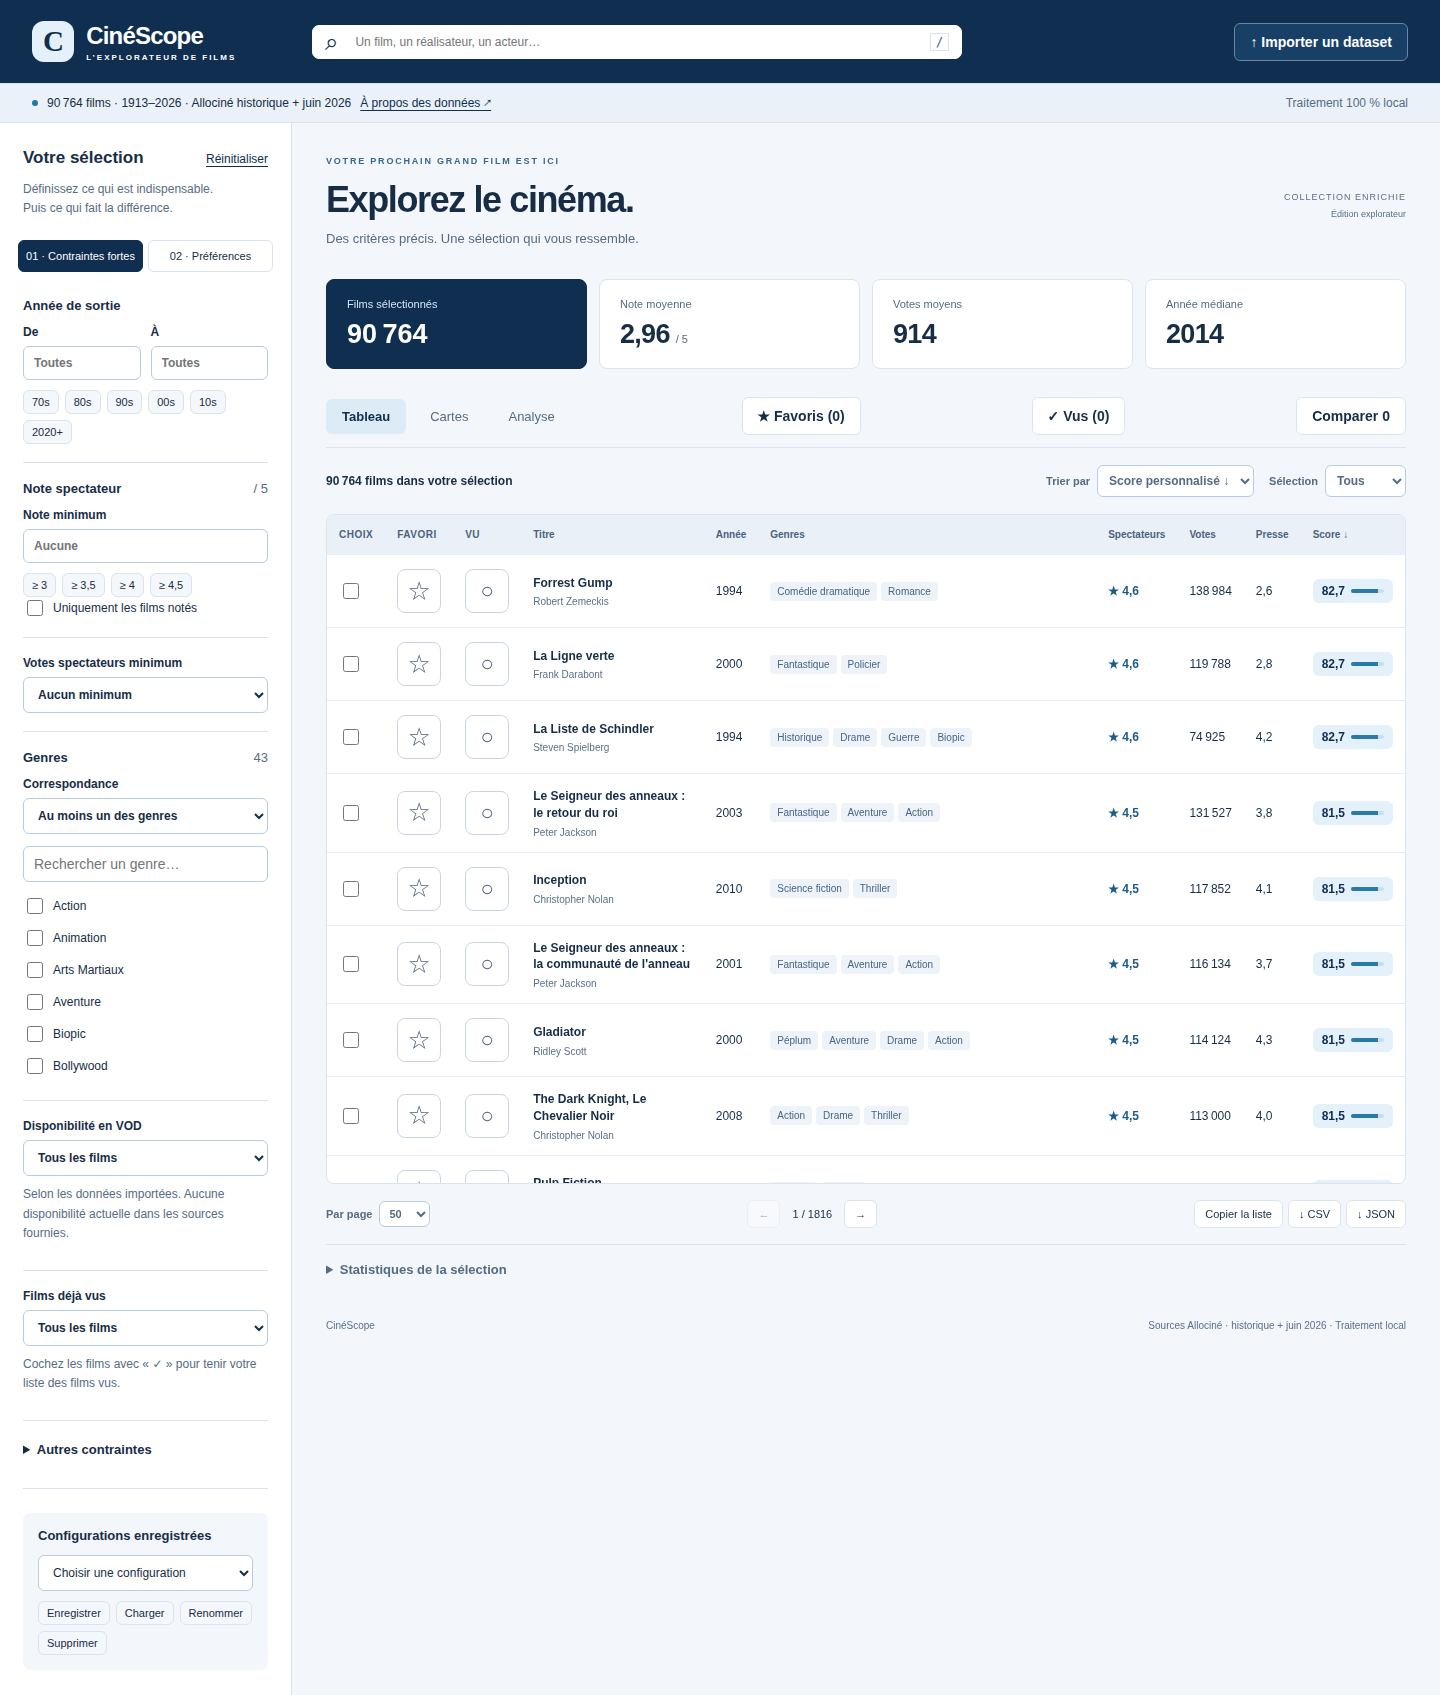
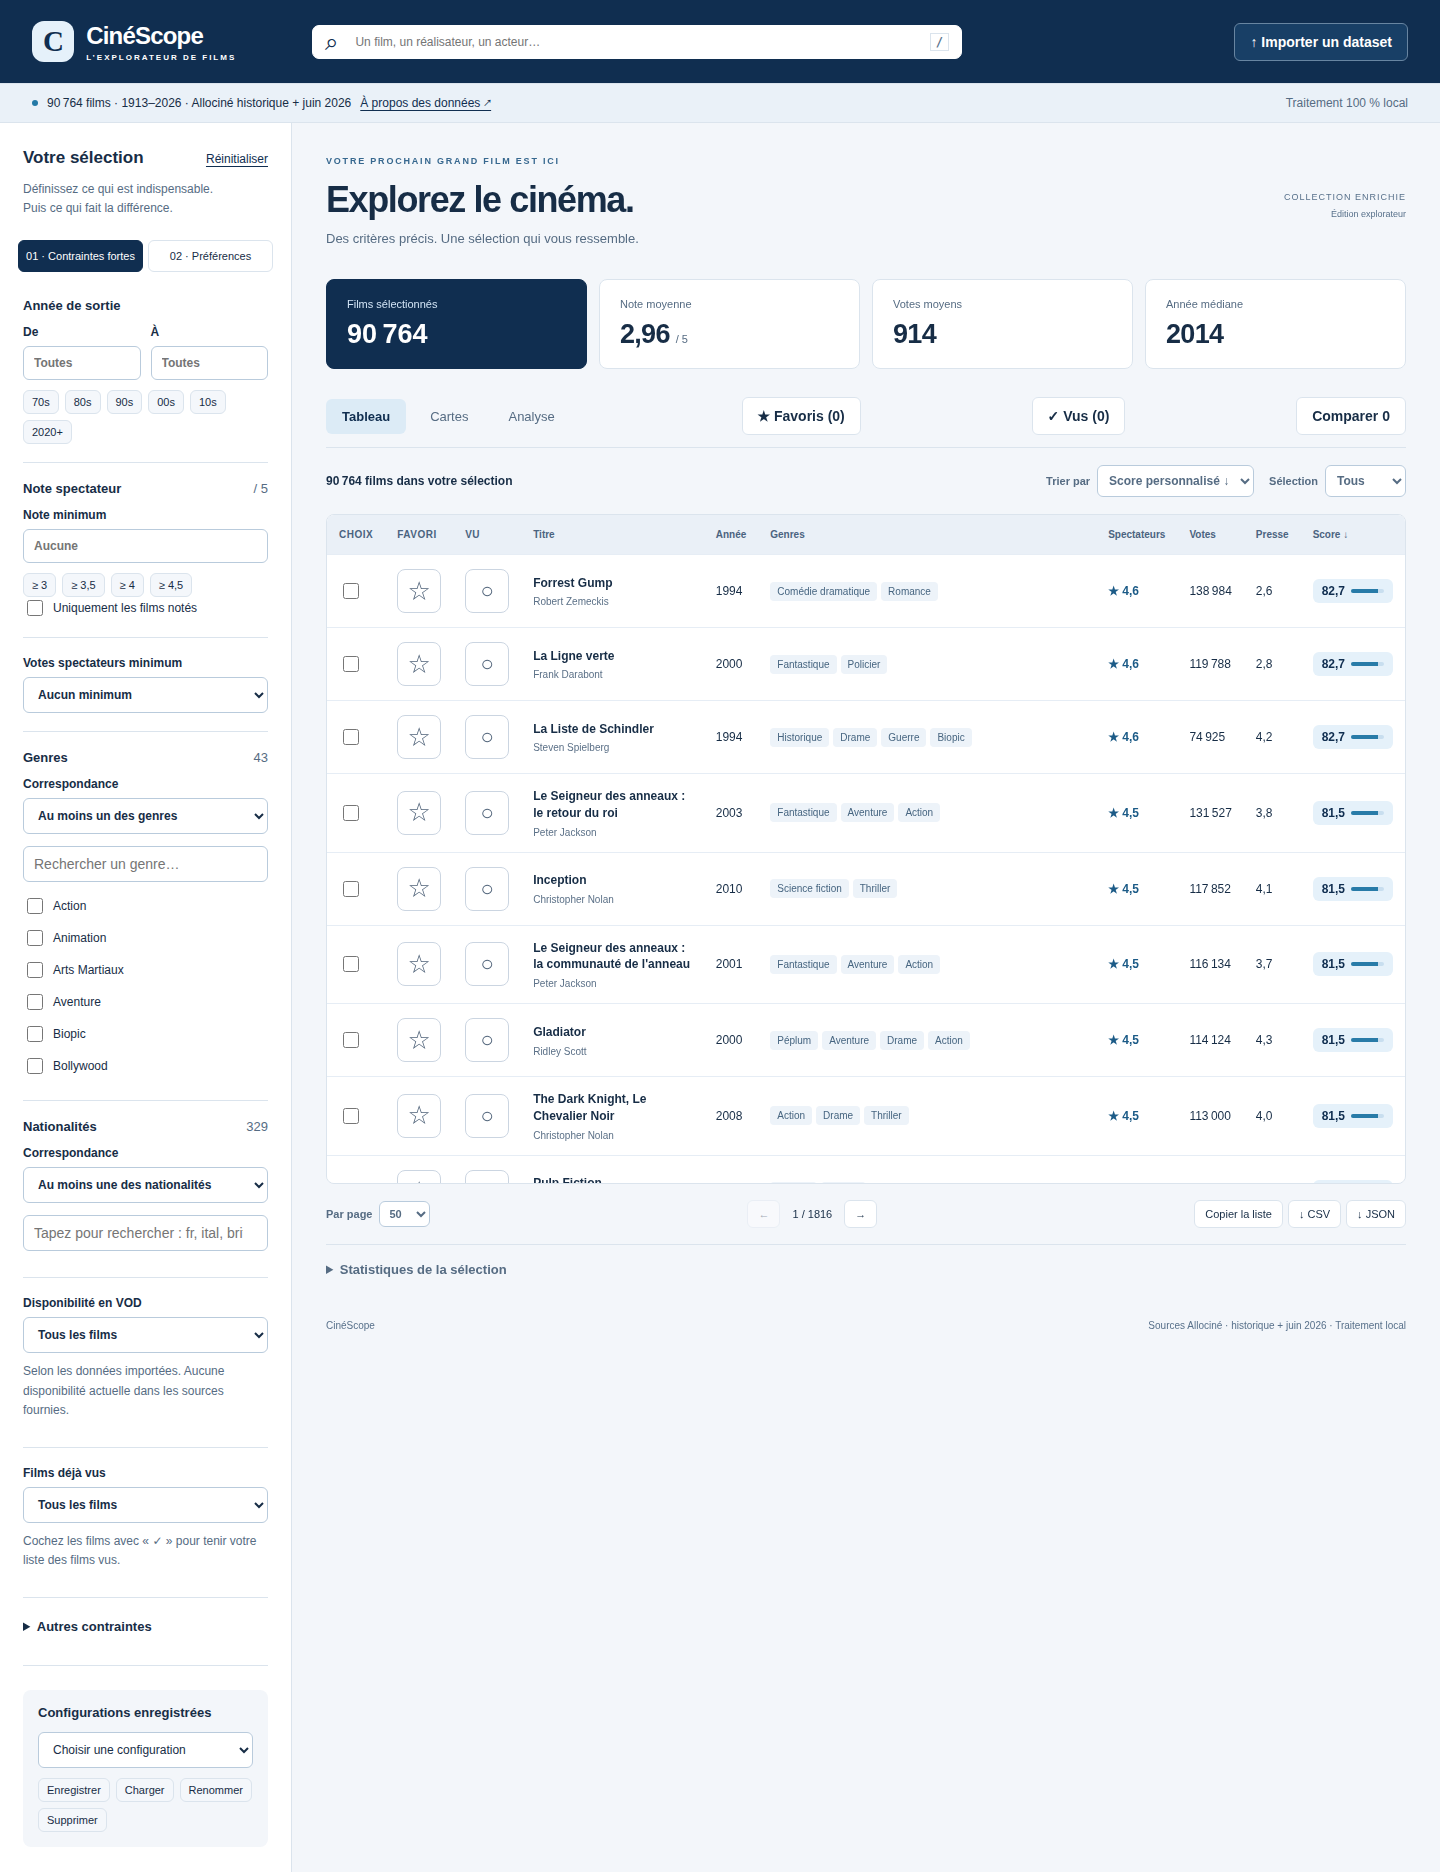
ok

diff --git a/js/ui/controls.js b/js/ui/controls.js
@@ -1,6 +1,9 @@
 import { $, el, labels, fmt } from "./dom.js";
 import { normalizeWeights } from "../scoring/scoring.js";
+import { fold } from "../utils/values.js";
+let refreshResults = () => {};
 export function setupControls(state, update) {
+  refreshResults = update;
   for (const decade of [1970, 1980, 1990, 2000, 2010, 2020])
     $("#decades").append(
       el(
@@ -99,6 +102,114 @@ export function setupControls(state, update) {
     for (const label of $("#genre-list").children)
       label.hidden = !label.textContent.toLocaleLowerCase("fr").includes(q);
   };
+  setupCountryAutocomplete(state);
+}
+function setupCountryAutocomplete(state) {
+  const input = $("#country-search"),
+    box = $("#country-suggestions");
+  let active = -1;
+  const suggestions = () => {
+    const q = fold(input.value).trim();
+    if (!q) return [];
+    const chosen = state.config.filters.countries;
+    const all = state.summary?.countries || [];
+    return all
+      .filter((c) => !chosen.includes(c) && fold(c).includes(q))
+      .sort((a, b) => {
+        const ap = fold(a).startsWith(q),
+          bp = fold(b).startsWith(q);
+        return ap === bp ? a.localeCompare(b, "fr") : ap ? -1 : 1;
+      })
+      .slice(0, 8);
+  };
+  const close = () => {
+    box.hidden = true;
+    box.replaceChildren();
+    active = -1;
+    input.setAttribute("aria-expanded", "false");
+  };
+  const choose = (country) => {
+    if (!state.config.filters.countries.includes(country))
+      state.config.filters.countries = [
+        ...state.config.filters.countries,
+        country,
+      ];
+    input.value = "";
+    close();
+    renderCountrySelected(state);
+    refreshResults();
+  };
+  const render = () => {
+    const items = suggestions();
+    active = -1;
+    if (!items.length) return close();
+    box.replaceChildren(
+      ...items.map((c, i) =>
+        el(
+          "button",
+          {
+            type: "button",
+            class: "suggestion",
+            role: "option",
+            onmousedown: (e) => {
+              e.preventDefault();
+              choose(c);
+            },
+            onmouseenter: () => setActive(i),
+          },
+          c,
+        ),
+      ),
+    );
+    box.hidden = false;
+    input.setAttribute("aria-expanded", "true");
+  };
+  const setActive = (i) => {
+    active = i;
+    [...box.children].forEach((n, j) =>
+      n.classList.toggle("active", j === i),
+    );
+  };
+  input.oninput = render;
+  input.onfocus = render;
+  input.onblur = () => setTimeout(close, 120);
+  input.onkeydown = (e) => {
+    const items = [...box.children];
+    if (e.key === "ArrowDown") {
+      e.preventDefault();
+      if (items.length) setActive((active + 1) % items.length);
+    } else if (e.key === "ArrowUp") {
+      e.preventDefault();
+      if (items.length) setActive((active - 1 + items.length) % items.length);
+    } else if (e.key === "Enter") {
+      const pick = items[active] || items[0];
+      if (pick) {
+        e.preventDefault();
+        pick.dispatchEvent(new MouseEvent("mousedown"));
+      }
+    } else if (e.key === "Escape") close();
+  };
+}
+export function renderCountrySelected(state) {
+  const chosen = state.config.filters.countries;
+  $("#country-selected").replaceChildren(
+    ...chosen.map((c) =>
+      el(
+        "button",
+        {
+          type: "button",
+          class: "chip-remove",
+          "aria-label": "Retirer " + c,
+          onclick: () => {
+            state.config.filters.countries = chosen.filter((v) => v !== c);
+            renderCountrySelected(state);
+            refreshResults();
+          },
+        },
+        c + " ×",
+      ),
+    ),
+  );
 }
 export function renderGenres(state) {
   $("#genre-list").replaceChildren(
@@ -129,6 +240,7 @@ export function renderGenres(state) {
     ),
   );
   $("#genre-count").textContent = state.summary.genres.length;
+  $("#country-count").textContent = state.summary.countries.length;
 }
 export function updateWeightLabels(state) {
   const w = normalizeWeights(state.config.scoring.weights);
@@ -164,5 +276,6 @@ export function syncControls(state) {
     state.config.sorting.field + ":" + state.config.sorting.direction;
   $("#top").value = state.config.top;
   $("#page-size").value = state.config.pageSize;
+  renderCountrySelected(state);
   updateWeightLabels(state);
 }

diff --git a/tests/browser/app.spec.js b/tests/browser/app.spec.js
@@ -331,3 +331,28 @@ test("watched films persist, filter as a tab and hide from hard constraints", as
   await expect(page.locator("#watched-only")).toHaveText("✓ Vus (1)");
   await expect(page.locator("#hard-form [name=watched]")).toHaveValue("all");
 });
+test("nationality autocomplete suggests, adds and removes a filter", async ({ page }) => {
+  const total = await page.locator("#result-count").textContent();
+  // Typing a prefix suggests matching nationalities (accent-insensitive).
+  await page.locator("#country-search").fill("fr");
+  const suggestions = page.locator("#country-suggestions .suggestion");
+  await expect(suggestions.first()).toBeVisible();
+  await expect(suggestions.filter({ hasText: "français" }).first()).toBeVisible();
+  // Selecting one adds a removable chip and filters the results.
+  await suggestions.filter({ hasText: "français" }).first().click();
+  await expect(page.locator("#country-selected")).toContainText("français");
+  await expect(page.locator("#country-search")).toHaveValue("");
+  await expect(page.locator("#result-count")).not.toHaveText(total);
+  await expect(page.locator("#active-filters")).toContainText("français");
+  // Keyboard: type + Enter selects the top suggestion.
+  await page.locator("#country-search").fill("ital");
+  await page.locator("#country-search").press("Enter");
+  await expect(page.locator("#country-selected")).toContainText(/Ital/i);
+  // Removing the chip clears that filter.
+  await page.locator("#country-selected button", { hasText: "français" }).click();
+  await expect(page.locator("#country-selected")).not.toContainText("français");
+  // Reset clears everything.
+  await page.locator("#reset").click();
+  await expect(page.locator("#country-selected")).toBeEmpty();
+  await expect(page.locator("#result-count")).toHaveText(total);
+});

diff --git a/index.html b/index.html
@@ -115,6 +115,33 @@
             <div id="genre-list" class="genre-list"></div>
           </div>
           <div class="filter-section">
+            <h3>Nationalités <span id="country-count" class="scale"></span></h3>
+            <label
+              >Correspondance<select name="countryMode">
+                <option value="any">Au moins une des nationalités</option>
+                <option value="all">Toutes les nationalités</option>
+                <option value="exclude">Exclure ces nationalités</option>
+              </select></label
+            ><input
+              type="search"
+              id="country-search"
+              role="combobox"
+              autocomplete="off"
+              aria-autocomplete="list"
+              aria-expanded="false"
+              aria-controls="country-suggestions"
+              aria-label="Rechercher une nationalité"
+              placeholder="Tapez pour rechercher : fr, ital, brita…"
+            />
+            <div
+              id="country-suggestions"
+              class="autocomplete"
+              role="listbox"
+              hidden
+            ></div>
+            <div id="country-selected" class="chips"></div>
+          </div>
+          <div class="filter-section">
             <label
               >Disponibilité en VOD<select name="vod">
                 <option value="all">Tous les films</option>

diff --git a/css/styles.css b/css/styles.css
@@ -975,6 +975,40 @@ dialog::backdrop {
 }
 .results-heading { flex-wrap: wrap; gap: 10px; }
 
+.autocomplete {
+  display: flex;
+  flex-direction: column;
+  margin-top: 4px;
+  border: 1px solid #cbd5e1;
+  border-radius: 8px;
+  overflow: hidden;
+  background: #fff;
+}
+.autocomplete .suggestion {
+  text-align: left;
+  padding: 8px 10px;
+  border: 0;
+  border-bottom: 1px solid #eef2f7;
+  background: #fff;
+  color: #102e50;
+  cursor: pointer;
+  font: inherit;
+}
+.autocomplete .suggestion:last-child { border-bottom: 0; }
+.autocomplete .suggestion.active,
+.autocomplete .suggestion:hover { background: #e8f2fb; }
+#country-selected { margin-top: 8px; }
+.chip-remove {
+  padding: 5px 10px;
+  border: 1px solid #cbd5e1;
+  border-radius: 999px;
+  background: #eef4fb;
+  color: #102e50;
+  cursor: pointer;
+  font-size: 13px;
+}
+.chip-remove:hover { background: #d7e8f8; }
+
 .trailer { margin: 14px 0; }
 .trailer h4 { margin: 0 0 8px; }
 .trailer-frame {

diff --git a/js/app.js b/js/app.js
@@ -209,6 +209,20 @@ function activeFilters() {
         (f.genreMode === "exclude" ? "Sans " : "") + g + " ×",
       ),
     );
+  for (const c of f.countries)
+    nodes.push(
+      el(
+        "button",
+        {
+          onclick: () => {
+            f.countries = f.countries.filter((v) => v !== c);
+            syncControls(state);
+            schedule();
+          },
+        },
+        (f.countryMode === "exclude" ? "Sans " : "") + c + " ×",
+      ),
+    );
   for (const [i, p] of f.pivot.entries())
     nodes.push(
       el(

diff --git a/js/filters/filters.js b/js/filters/filters.js
@@ -31,6 +31,17 @@ export function matches(m, f) {
     )
       return false;
   }
+  if (f.countries && f.countries.length) {
+    const n = f.countries.filter((c) => m.countries.includes(c)).length;
+    if (
+      f.countryMode === "all"
+        ? n !== f.countries.length
+        : f.countryMode === "exclude"
+          ? n > 0
+          : n === 0
+    )
+      return false;
+  }
   for (const [key, field] of [
     ["director", "directors"],
     ["actor", "actors"],

diff --git a/js/engine.js b/js/engine.js
@@ -51,6 +51,9 @@ export function execute(type, p) {
       genres: [...new Set(movies.flatMap((m) => m.genres))].sort((a, b) =>
         a.localeCompare(b, "fr"),
       ),
+      countries: [...new Set(movies.flatMap((m) => m.countries))].sort((a, b) =>
+        a.localeCompare(b, "fr"),
+      ),
       directors: new Set(movies.flatMap((m) => m.directors)).size,
       vod: movies.filter((m) => m.vodAvailable !== null).length,
       C: ctx.C,

diff --git a/js/state.js b/js/state.js
@@ -10,6 +10,8 @@ export const defaults = () => ({
     onlyRated: false,
     genres: [],
     genreMode: "any",
+    countries: [],
+    countryMode: "any",
     director: "",
     actor: "",
     country: "",
